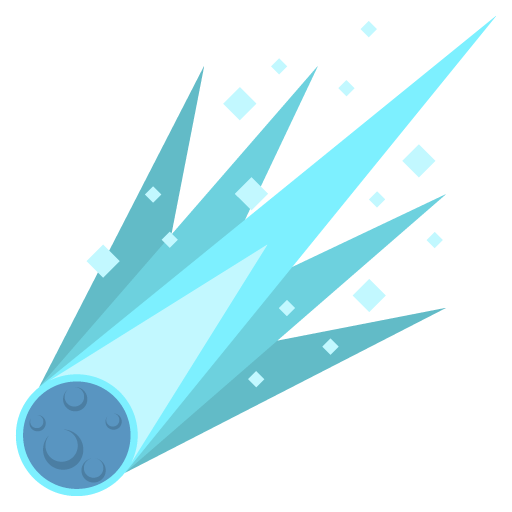
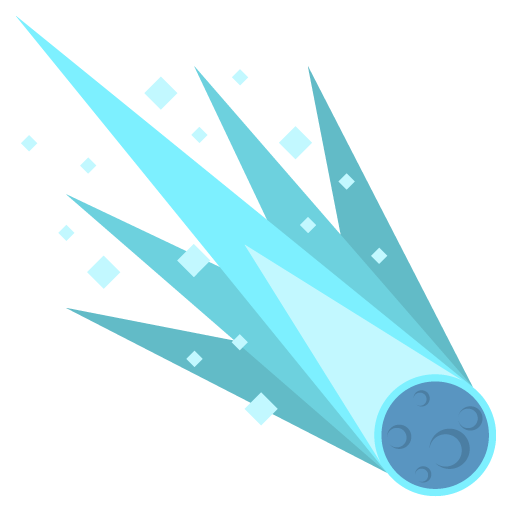
Change comet to image from drawArc

diff --git a/client/src/Containers/Canvas/Canvas.js b/client/src/Containers/Canvas/Canvas.js
@@ -1,5 +1,6 @@
 import React, { Component } from 'react';
 import style from './Canvas.module.css';
+import image from '../../Comet2.png';
 import Comet from '../../Components/Comet';
 
 class Canvas extends Component {
@@ -24,14 +25,20 @@ class Canvas extends Component {
    componentDidMount() {
       const canvas = this.canvasRef.current;
       const ctx = canvas.getContext('2d');
-      this.createComets();
+      // const imageMain = new Image();
+      // imageMain.src = image;
+      // imageMain.onload = () => {
+      //    ctx.drawImage(imageMain, 0, 0);
+      // };
 
+      this.createComets();
+      setInterval(() => this.drawCanvas(), 70);
       setInterval(() => {
          for (let i = 0; i < this.state.numComets; i++) {
             this.state.comets[i].updateComet(ctx, this.state.width);
          }
-      }, 5);
-      setInterval(() => this.drawCanvas(), 70);
+         // ctx.drawImage(imageMain, 0, 0);
+      }, 20);
    }
 
    componentDidUpdate() {

diff --git a/client/src/Components/Comet.js b/client/src/Components/Comet.js
@@ -1,3 +1,8 @@
+import image from '../comet.png';
+
+const cometImage = new Image();
+cometImage.src = image;
+
 export default class Comet {
    constructor(width) {
       this.x = Math.random() * width - Math.random() * 1000;
@@ -6,7 +11,7 @@ export default class Comet {
       this.dy = 0.75;
       this.dx = 2;
       this.color = 'rgb(254,245,187)';
-      this.image = '../Comet2.png';
+      this.image = cometImage;
    }
 
    drawComet(ctx) {
@@ -14,6 +19,7 @@ export default class Comet {
       ctx.arc(this.x, this.y, this.radius, 0, Math.PI * 2, false);
       ctx.fillStyle = this.color;
       ctx.fill();
+      ctx.drawImage(this.image, this.x, this.y, 50, 50);
    }
 
    updateComet(ctx, width) {
